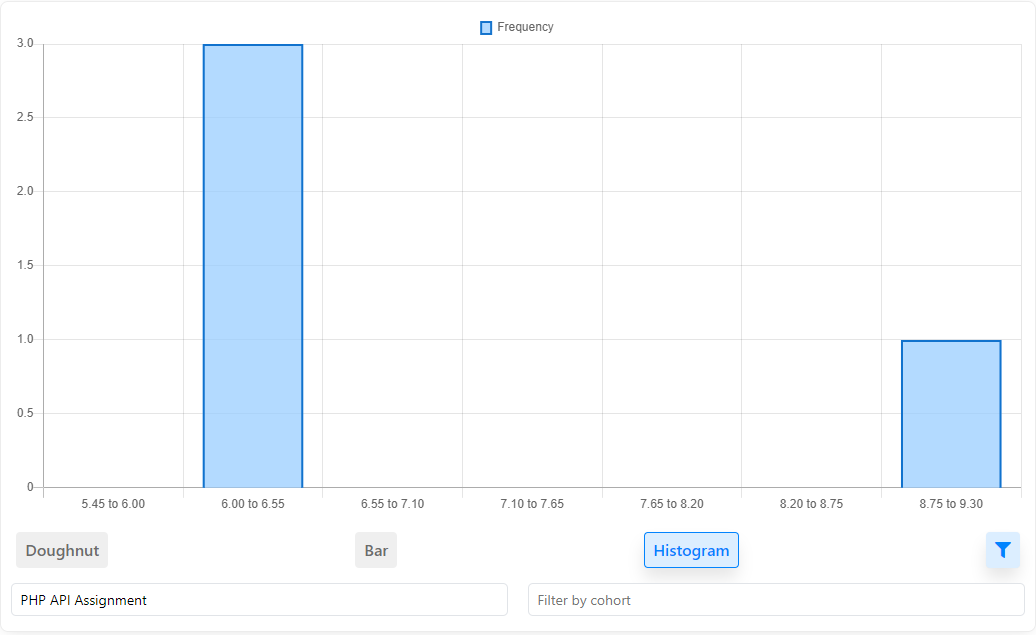
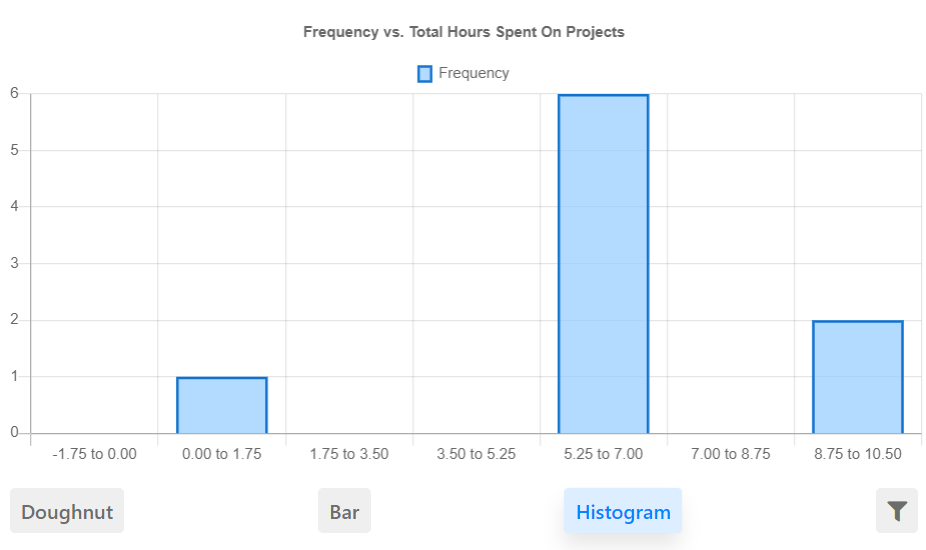
Readme update which include student list and instructor list in the user guide document.

diff --git a/Planning/Testing_Plan/README.md b/Planning/Testing_Plan/README.md
@@ -24,17 +24,33 @@ After an account was created, the user can sign in based on the email and passwo
 ## Instructor
 The instructor can view list of projects created and assigned to student, charts, update account, create project and sign out. 
 
-### Charts
-There are three charts available for instructor to view.
-- Doughnut chart calculates the average hours per project type or assignment name, eg. PHP API Assignment.
-- The bar chart compares the maximum and minimum hours spent per project, eg. PHP API Assignment. The average bar allows the instructor to compare the differences between minimum and maximum values against the average student population. 
-- This histogram chart allows the instructor to analyze the difficulty of their assignment. A good assignment should have symmetric shape. Skewing left or skewing right could indicate that the assignment is either too difficult or too easy. 
+### Instructor List
+The instructor can view a list of projects created and assigned. Each list includes date created, due date, total hours spent on the project, and student name. This list can be filtered by project name or cohort. 
+
+Each project assigned are colour coded:
+- White: The project was assigned to a student. The project is neither overdue nor completed.
+- Yellow: The student did not complete the project within the deadline issued. 
+- Green: The student marks the project as completed. 
+
+| List | Colour coded projects |
+| --- | --- |
+| ![project list instructor](Screenshots/Instructor_List_View.PNG) | ![project list colour coded](Screenshots/Instructor_List_View_Completed_Overdue.PNG)
+
+### Instructor Charts
+There are three charts available for the instructor to view.
+- Doughnut chart calculates the average hours spent on a task for all projects and it can be filtered by project name and cohort.
+- The bar chart compares the maximum and minimum hours spent per project. The average bar allows the instructor to compare the differences between minimum and maximum values against the average student population. Additionally, the bar chart can be filtered by project name and cohort. 
+- This histogram chart allows the instructor to analyze the difficulty of their assignment. Furthermore, it can filtered by project name and cohort (refer to note 1). 
 
 | Doughnut  | Bar | Histogram |
 | ------------- | ------------- | ------------- |
 | ![doughnut](Screenshots/doughnut_chart.PNG)  | ![bar](Screenshots/bar_chart.PNG)  | ![histogram](Screenshots/Histogram_Chart.PNG) |
 
-This is an example from [Mike Yi](https://chartio.com/learn/charts/histogram-complete-guide/) indicating the variety of histogram shapes.
+| Doughnut filtered | Bar filtered | Histogram filtered |
+| --- | --- | --- |
+| ![doughnut filtered](Screenshots/doughnut_chart_filtered.PNG) | ![bar filtered](Screenshots/bar_chart_filtered.PNG) | ![bar filtered](Screenshots/Histogram_Chart_Filtered.PNG) |
+
+Note 1: A good assignment should have shape symmetry. Skewing left or skewing right could indicate that the assignment is either too difficult or too easy. This is an example from [Mike Yi](https://chartio.com/learn/charts/histogram-complete-guide/) indicating the variety of histogram shapes.
 
 ![histogram variety](Screenshots/histogram-variaties.png)
 
@@ -42,7 +58,7 @@ This is an example from [Mike Yi](https://chartio.com/learn/charts/histogram-com
 
 The figures below, show the fields required to be entered to create a project, eg. JavaScript DOM Assignment that is due on October 22, 2020 at 9:00 am. The instructor will have a choice to either assign the project to a student based or to a cohort. A message will return if the project is succesfully created. 
 
-| Assign to a Student  | Assign to a Cohort | Success Message |
+| Assign to a student  | Assign to a cohort | Success message |
 | ------------- | ------------- | ------------- |
 | ![To a Student](Screenshots/create_project_individual.PNG)  | ![To a Cohort](Screenshots/create_project_cohort.PNG)  | ![Project Success Message](Screenshots/create_project_success.PNG) |
 
@@ -50,7 +66,7 @@ The successful creation of *JavaScript DOM Assignment* in the **project** table 
 
 ![project_database](Screenshots/database_project_create.PNG)
 
-### Update Account
+### Instructor Update Account
 The instructor can update their name, password, and email on their account as shown below:
 
 | Update Account Field | Update Account Success Message |
@@ -64,7 +80,11 @@ The **person** table update as shown in database update.
 ## Student
 The student can view list of projects that were assigned to them. Student can update hours for their project, update account, and sign out. 
 
-### Update Hours
+### Student List
+The student has an identical view as the instructor on the homepage. However, the key difference is that the student is only able to view projects that were assigned to them. The colour-coded projects have similar meanings as stated in the subsection, [List](Testing_Plan#instructor-list) above.
+![Student List View](Screenshots/student_list_completed.PNG)
+
+### Student Update Hours
 Student is able to update the hours and track the hours accumulated. Bar chart display will help student evaluate the hours accumulated for the type of task. Additionally, student is able to mark the project as completed and archive the project using delete project button. The figures below show the input fields and chart available for student.
 
 | Update Hours Field  | Update Success | Bar Chart |
@@ -75,8 +95,8 @@ The hours updated in the **project** table within the database.
 
 ![Person table database update](Screenshots/database_project_created.PNG)
 
-### Update Account
-Updating account format is similar to instructor as shown [above](Testing_Plan#update-account). 
+### Student Update Account
+Updating account format is similar to instructor as shown [above](Testing_Plan#instructor-update-account). 
 
 # Testing Plan
 The User Guide above has provided steps to successfully execute create, update, read, and delete actions in the applications. Therefore the testing plan below will show integration tests that will evaluate features of Timesheet Tracker. 
